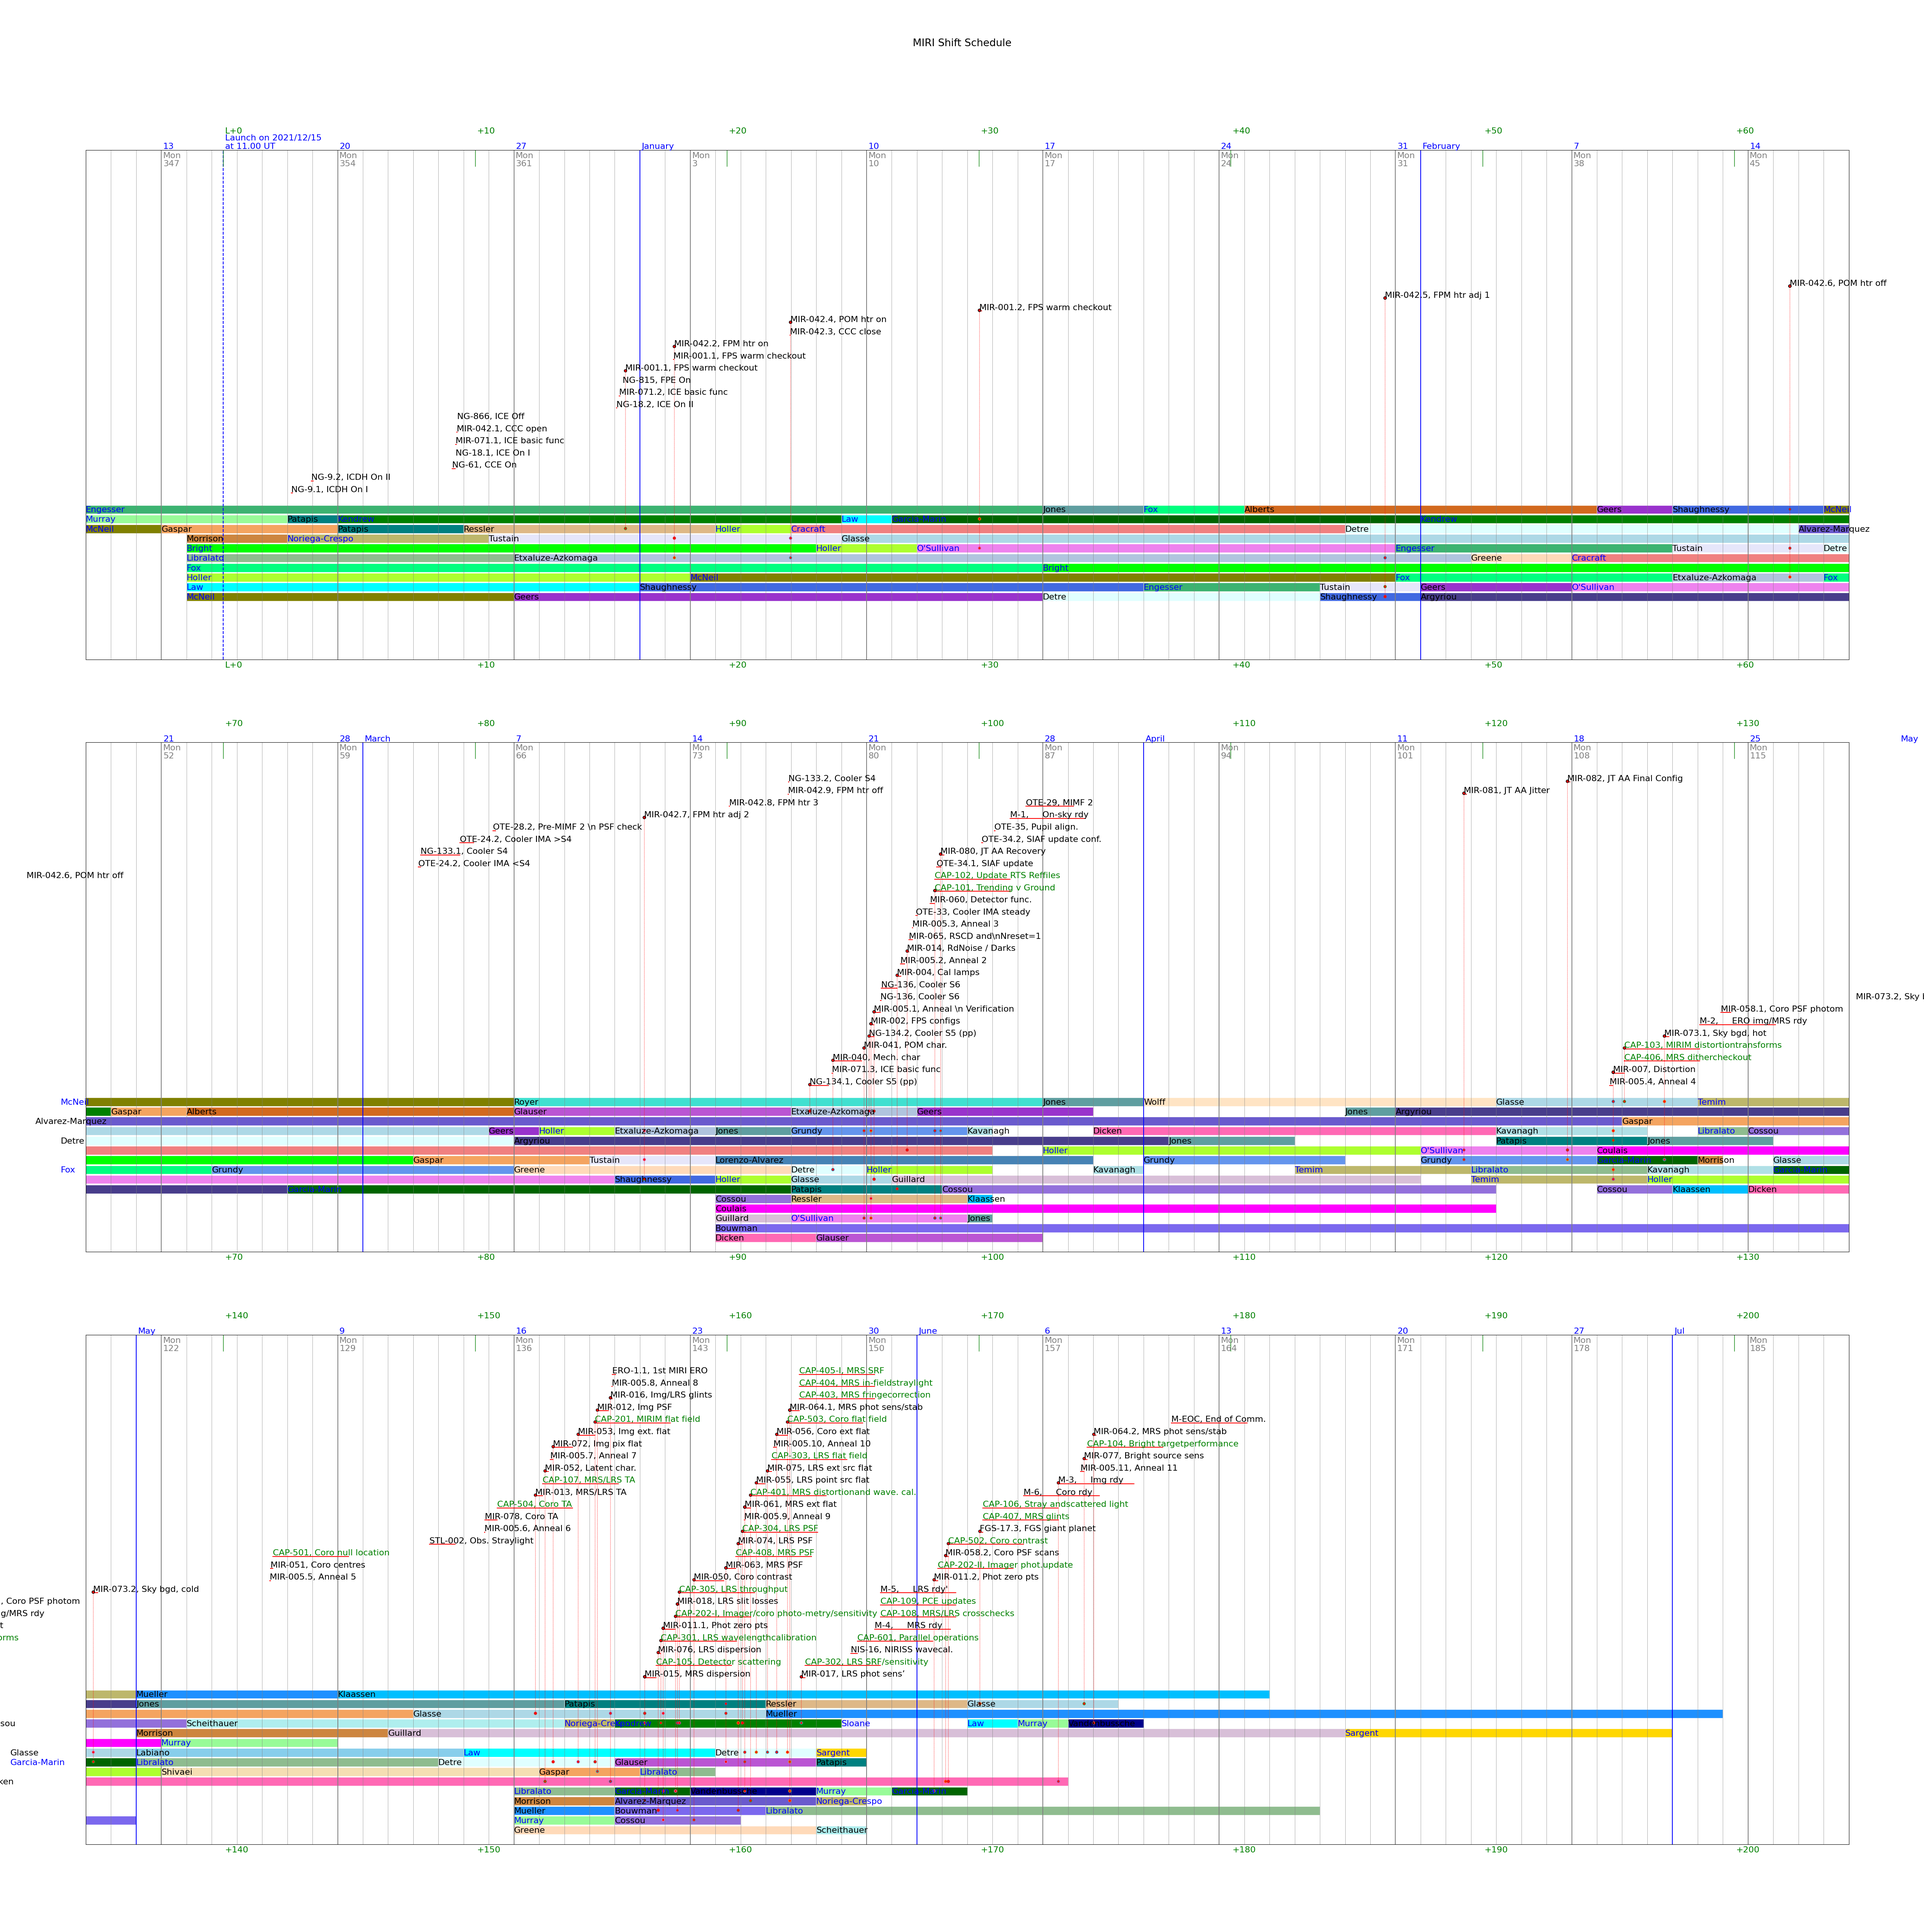
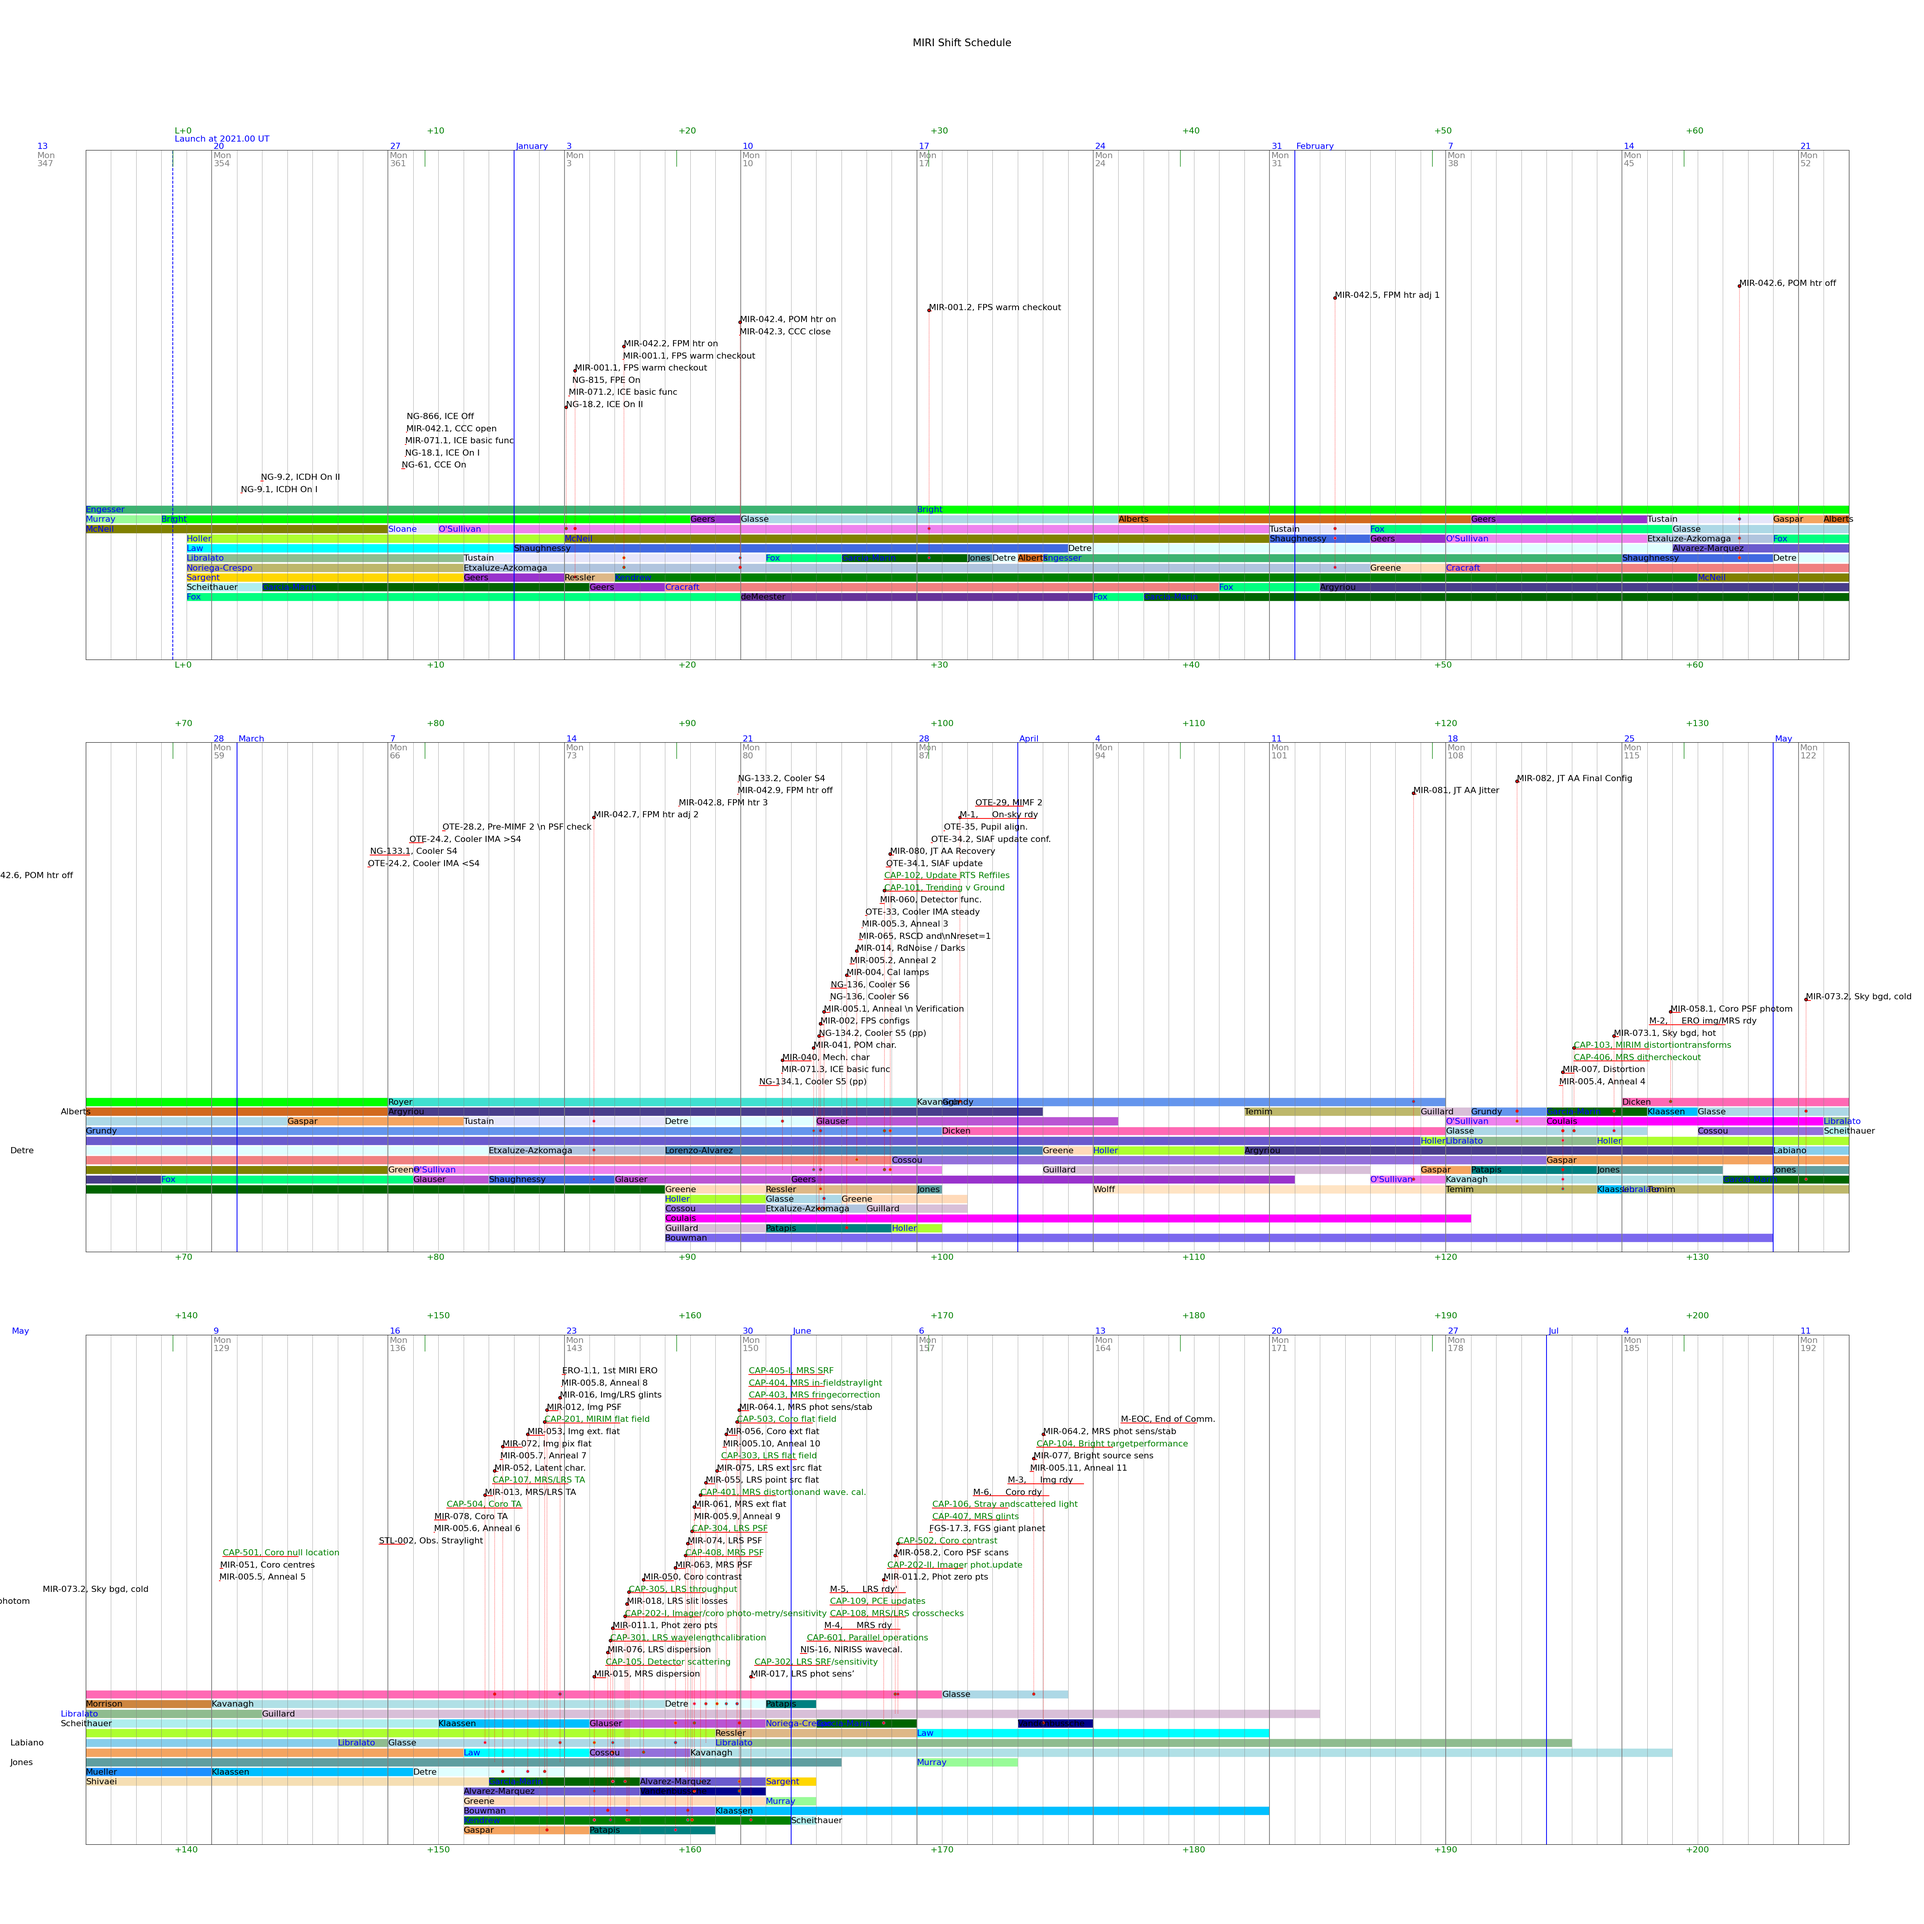
Wim de Meester, Jan 10 - 24, 2022

diff --git a/source/shift_plan.py b/source/shift_plan.py
@@ -17,9 +17,9 @@ class ShiftPlan:
     """
     month_names = ['January', 'February', 'March', 'April', 'May', 'June',
                    'Jul', 'Aug', 'Sep', 'Oct', 'November', 'December']
-    launchyear, launchmonth, launchdate, launchhour = 2021, 12, 15, 11.00
+    launchyear, launchmonth, launchdate, launchhour = 2021, 12, 18, 11.00
     launchdate_last_monday = 13             # Date of month of the last Monday before launch
-    start_day, end_day = -5, 200
+    start_day, end_day = -3, 200
     n_days = end_day - start_day + 1
     console_rota = []
     free = None
@@ -46,9 +46,9 @@ class ShiftPlan:
         """
         n_days = ShiftPlan.n_days
         n_slots_max = 15
-        n_slots_nominal = 10       #ShiftPlan.n_slots_peak               # More slots for peak stress
-        daily_slot_quota = np.full((n_days), n_slots_nominal)        # Count of slots on each day
-        unusual_slots = [(-6, -2, 3), (90, 100, 15), (152, 165, 15)]
+        n_slots_nominal = 10                                            # More slots for peak stress
+        daily_slot_quota = np.full((n_days), n_slots_nominal)           # Count of slots on each day
+        unusual_slots = [(-6, 0, 3), (90, 100, 15), (152, 165, 15)]     # L+a L+b nshifts
         for uslot in unusual_slots:
             col1 = uslot[0] - ShiftPlan.start_day
             col2 = uslot[1] - ShiftPlan.start_day
@@ -324,7 +324,7 @@ class ShiftPlan:
                 ax.text(xlm+0.001*xrange, yrange - 2.0*y_pitch, doy_text, color='grey')
                 year, month, dom = ShiftPlan._doy_to_ymd(year, doy)
                 ax.text(xlm+0.001*xrange, yrange - y_pitch, 'Mon', color='grey')
-                if dom > 4:
+                if dom > 2:                 # Avoid overwriting other decorations
                     dom_text = "{:d}".format(dom)
                     ax.text(xlm+0.001*xrange, yrange + 0.1*y_pitch, dom_text, color='blue')
                 xlm += 7
@@ -333,9 +333,9 @@ class ShiftPlan:
             ax.plot([xl, xl], [ylim[0], 1.01*yrange], color='blue', lw=1.5, ls='--')
             lyr, lmo = ShiftPlan.launchyear, ShiftPlan.launchmonth
             lda, lti = ShiftPlan.launchdate, ShiftPlan.launchhour
-            fmt = 'Launch on {:d}/{:d}/{:d}\nat {:5.2f} UT'
+            fmt = 'Launch at {:5.2f} UT'
             launch_text = fmt.format(lyr, lmo, lda, lti)
-            ax.text(xl+0.001*xrange, yrange + 0.1*y_pitch, launch_text, color='blue')
+            ax.text(xl+0.001*xrange, yrange + y_pitch, launch_text, color='blue')
             year = ShiftPlan.launchyear
             month = ShiftPlan.launchmonth + 1
             if month > 12:      # Catch December launch
@@ -359,9 +359,9 @@ class ShiftPlan:
             while xmd < xmax:
                 md_text = fmt.format(int(xmd))
                 fmt = "+{:d}"
-                ax.text(xmd + 0.001 * xrange, yrange + 2.*y_pitch, md_text, color='green')
+                ax.text(xmd + 0.001 * xrange, yrange + 2.0*y_pitch, md_text, color='green')
                 ax.text(xmd + 0.001 * xrange, -y_pitch, md_text, color='green')
-                ax.plot([xmd, xmd], [yrange, yrange - 2.0 * y_pitch], color='green', lw=1.0, ls='-')
+                ax.plot([xmd, xmd], [yrange, yrange - 2.0*y_pitch], color='green', lw=1.0, ls='-')
                 xmd += 10
         return fig, axs
 

diff --git a/source/timeliner.py b/source/timeliner.py
@@ -40,7 +40,7 @@ KdpUtils.schedule_kdps()
 kdps = KdpUtils.kdps
 
 print()
-dataflow = True        # True = Replot dataflow diagrams
+dataflow = False        # True = Replot dataflow diagrams
 if dataflow:
     dataflow = DataFlow()
     dc_keys = DataFlow.col_dict.keys()
@@ -51,22 +51,22 @@ if dataflow:
 print("Building shift plan")
 plan = ShiftPlan()
 rota = ShiftPlan.create_rota()
-#ShiftPlan.plot_staff_schedules(name='s1.png')
+ShiftPlan.plot_staff_schedules(name='s1.png')
 #ShiftPlan.plot_rota(rota, 'r1')
 rota = ShiftPlan.allocate_prescheduled(rota)
-#ShiftPlan.plot_staff_schedules(name='s2.png')
-#ShiftPlan.plot_rota(rota, 'r2')
+ShiftPlan.plot_staff_schedules(name='s2.png')
+ShiftPlan.plot_rota(rota, 'r2')
 rota = ShiftPlan.allocate_tasks(rota, 'CAP')
 rota = ShiftPlan.allocate_tasks(rota, 'KDP')
 rota = ShiftPlan.allocate_tasks(rota, 'CAR')
-#ShiftPlan.plot_staff_schedules(name='s3.png')
-#ShiftPlan.plot_rota(rota, 'r3')
+ShiftPlan.plot_staff_schedules(name='s3.png')
+ShiftPlan.plot_rota(rota, 'r3')
 rota = ShiftPlan.allocate_remaining(rota)
-#ShiftPlan.plot_staff_schedules(name='s4.png')
-#ShiftPlan.plot_rota(rota, 'r4')
+ShiftPlan.plot_staff_schedules(name='s4.png')
+ShiftPlan.plot_rota(rota, 'r4')
 rota = ShiftPlan.tidy_rota(rota)
-#ShiftPlan.plot_staff_schedules(name='s5.png')
-#ShiftPlan.plot_rota(rota, 'r5')
+ShiftPlan.plot_staff_schedules(name='s5.png')
+ShiftPlan.plot_rota(rota, 'r5')
 rota = ShiftPlan.remove_singles(rota)
 ShiftPlan.test_rota(rota)
 ShiftPlan.plot_staff_schedules(name='staff_schedule.png')
